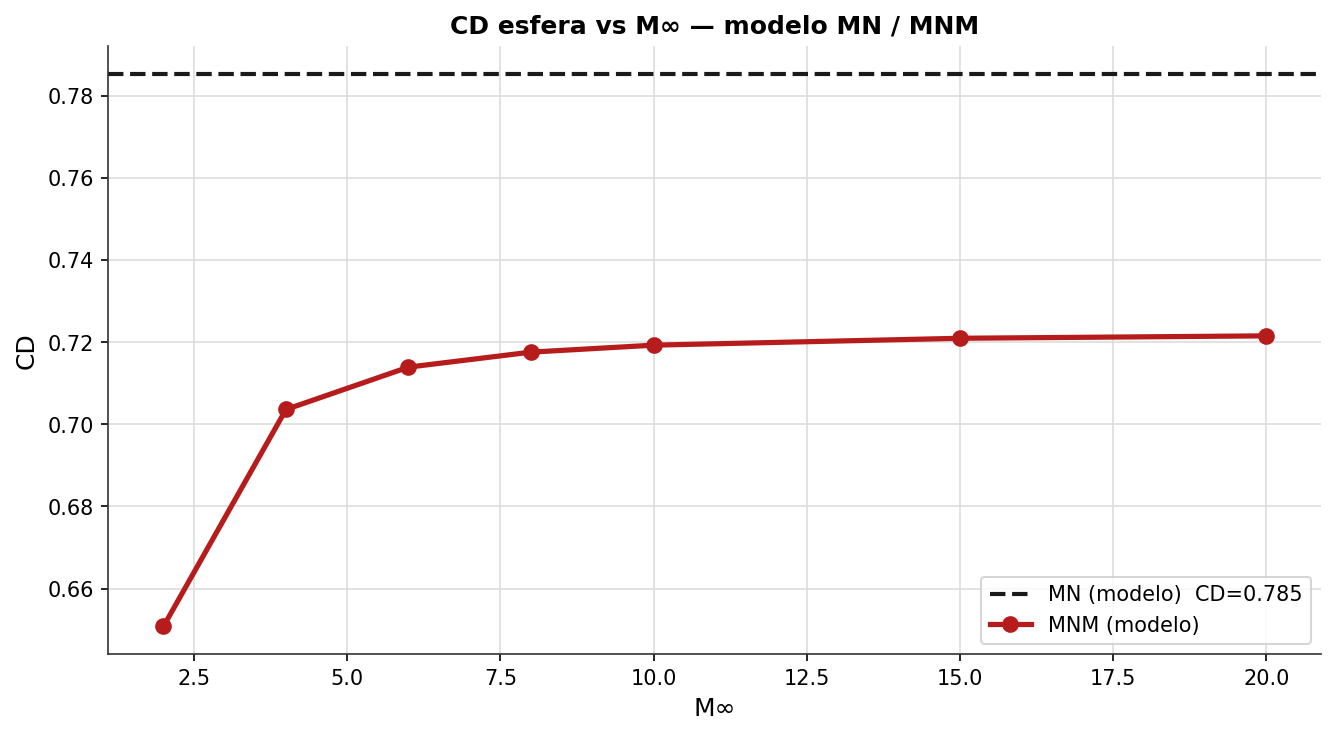
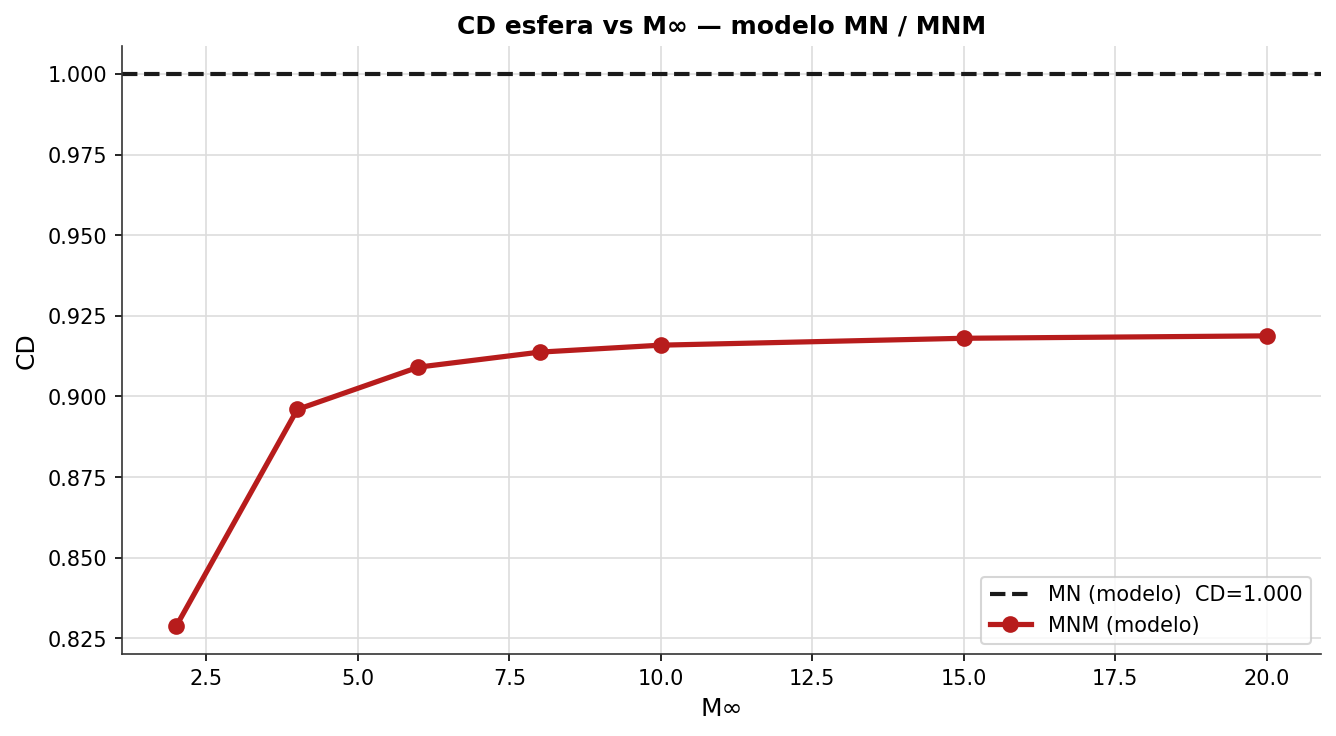
A

diff --git a/src/runner.py b/src/runner.py
@@ -892,10 +892,10 @@ def run_validation(config: dict, plots_dir: Path, gamma: float = 1.4):
     Stheta  = tnorm @ U_DIR                     # dot(U, outward_normal)
 
     # ── MN numérico sobre el STL ─────────────────────────────────────────────
-    ext   = verts.max(0) - verts.min(0)
-    S_ref = float(ext[0] * ext[2])
-    L_ref = float(ext[1])
-    r_ref = np.average(centers, axis=0, weights=areas)
+    R     = np.sqrt(areas.sum() / (4 * np.pi))
+    S_ref = float(np.pi * R**2)
+    L_ref = float(2 * R)
+    r_ref = np.zeros(3)
     # eD coherente con la convención del solver: flujo en +y
     flow_solver = np.array([0., +1., 0.])
     eM = np.array([1., 0., 0.])
@@ -925,9 +925,9 @@ def run_validation(config: dict, plots_dir: Path, gamma: float = 1.4):
 
     # ── Plot 1: Cp vs cos(φ) ────────────────────────────────────────────────
     fig, ax = plt.subplots(figsize=(10, 6))
-    ax.scatter(x_matlab, cp_matlab[s_matlab],  s=8,  alpha=0.5,
+    ax.scatter(x_matlab, cp_matlab[s_matlab],  s=30, alpha=0.7,
                color="#9E9E9E", zorder=3, label="Dato MATLAB")
-    ax.scatter(x_model,  cp_model[s_model],    s=20, alpha=0.8,
+    ax.scatter(x_model,  cp_model[s_model],    s=8,  alpha=0.8,
                color="#B71C1C", zorder=5, label="MN (modelo)")
     ax.set_xlabel("cos φ  (ángulo de incidencia local)", fontsize=12)
     ax.set_ylabel("Cp", fontsize=12)
@@ -945,9 +945,9 @@ def run_validation(config: dict, plots_dir: Path, gamma: float = 1.4):
     phi_matlab = np.degrees(np.arccos(np.clip(x_matlab, 0, 1)))
 
     fig, ax = plt.subplots(figsize=(10, 6))
-    ax.scatter(phi_matlab, cp_matlab[s_matlab], s=8,  alpha=0.5,
+    ax.scatter(phi_matlab, cp_matlab[s_matlab], s=30, alpha=0.7,
                color="#9E9E9E", zorder=3, label="Dato MATLAB")
-    ax.scatter(phi_model,  cp_model[s_model],   s=20, alpha=0.8,
+    ax.scatter(phi_model,  cp_model[s_model],   s=8,  alpha=0.8,
                color="#B71C1C", zorder=5, label="MN (modelo)")
     ax.set_xlabel("φ (°) desde estancamiento", fontsize=12)
     ax.set_ylabel("Cp", fontsize=12)
